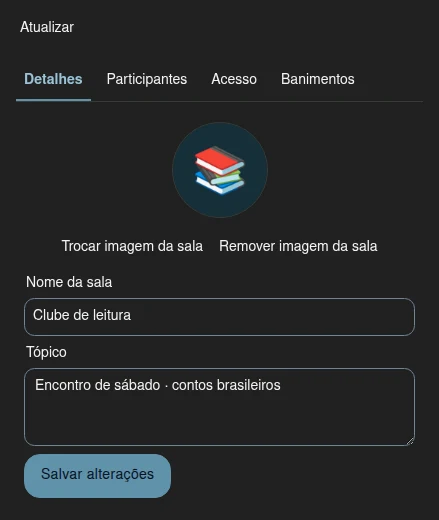
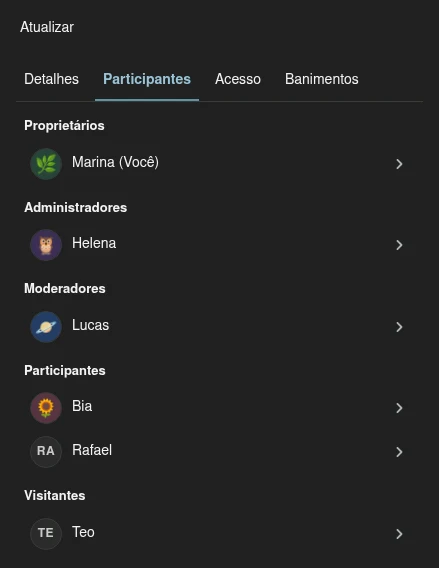
Document grouped room participants and individual controls

diff --git a/content/docs/manual/index.md b/content/docs/manual/index.md
@@ -44,11 +44,11 @@ Estas opções estão em desenvolvimento para uma versão posterior à v0.0.1-rc
 
 - Em **Nova conversa → Entrar na sala**, abra **Explorar salas públicas** e selecione uma sala para preencher o endereço e ver a prévia. Se a sala exigir senha, informe-a antes de entrar.
 - Dentro da sala, abra **Mais opções → Gerenciar sala**. Em **Detalhes**, edite o nome e o tópico conforme suas permissões. Se você for proprietário e o servidor oferecer suporte, use **Trocar imagem da sala** ou **Remover imagem da sala**.
-- Na aba **Participantes**, abra o menu de três pontos ao lado da pessoa para ver as ações disponíveis, como permitir falar, remover da sala ou banir. Use **Mais opções → Convidar pessoas** para enviar um convite.
+- A aba **Participantes** agrupa as pessoas por permissão e mostra as fotos disponíveis ou as iniciais. Selecione uma pessoa para gerenciar a função e o acesso, com ações como permitir falar, promover, remover da sala ou banir. Use **Mais opções → Convidar pessoas** para enviar um convite.
 - Administradores e proprietários podem consultar e alterar o acesso na aba **Acesso**. Na aba **Banimentos**, é possível banir um endereço ou retirar um banimento da lista.
 - Quando a sala oferece moderação de mensagens, moderadores podem usar **Remover mensagem** no menu da mensagem. A remoção aparece na conversa após a confirmação da sala.
 
-![Aba Detalhes de Gerenciar sala com as ações para trocar e remover a imagem da sala.](imagens/gerenciar-sala.webp "Aba Detalhes de Gerenciar sala")
+![Aba Participantes de Gerenciar sala, com avatares e grupos por permissão.](imagens/gerenciar-sala.webp "Aba Participantes de Gerenciar sala")
 
 [Ver a captura completa](imagens/gerenciar-sala-original.webp)
 
